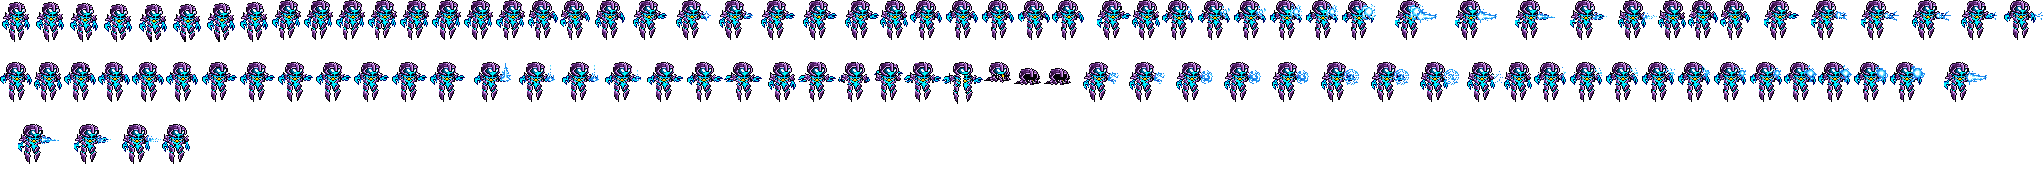
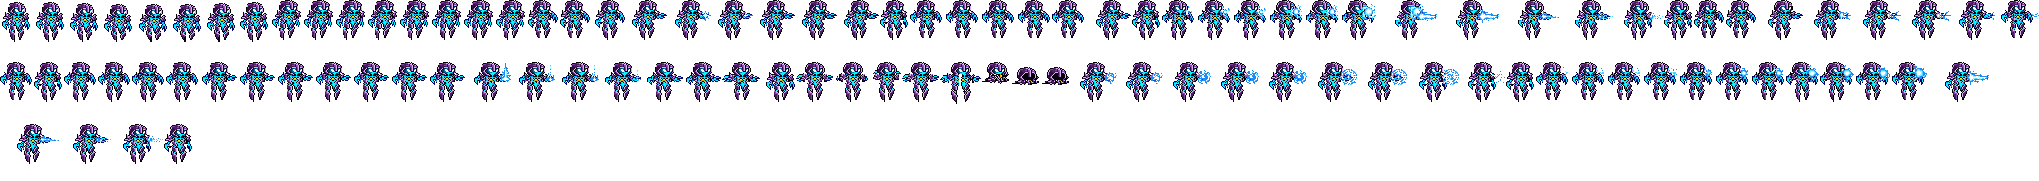
Xerath: the shrink's lines follow him from frame to frame
The user: 「缩小后放技能的时候模型有点变形」「攻击时候也是」. Cut at fixed
canvas lines, a cast or an attack that moves him took different lines of him
in each frame (his head changed by 8-22 px between frames where main's does
not change at all). shrink_frames: anchor_shifts - per frame the offset of a
colour only one feature has (SHRINK_ANCHOR xerath: his eye core FBFCFC,
tracked frame to frame so a baked effect's white does not pull it); the lines
are chosen on the frames moved back onto the first and removed at that
offset in each. A bake copy (attack_fx1 = the attack from 183 ms) takes its
own frames' offsets against its source's first frame. Now the head changes
between frames exactly where main's drawing does (run, attack, hit, ult loop,
attack_fx1: 0).

Changed region(s): [[0.0, 0.0, 1.0, 0.221], [0.0, 0.3315, 0.9887, 0.5525], [0.0, 0.6906, 0.0927, 0.9116]]

diff --git a/tools/art/shrink_frames.py b/tools/art/shrink_frames.py
@@ -178,13 +178,18 @@ def _pick(cost, lo, hi, k, avoid=(), keep=None):
     return out
 
 
-def plan_tag(frames, body, scale, keep_colours=(), edge_rows=(), edge_cols=(), hard_frames=None):
+def plan_tag(frames, body, scale, keep_colours=(), edge_rows=(), edge_cols=(), hard_frames=None, shifts=None):
     """The rows and columns (canvas lines, from the pivot) the hero loses. body = (top, bottom, left, right) of the
     idle's body from the pivot (bottom = the soles' row): of its rows and columns 1 - scale go; of what lies beyond
     it (a raised or held-out weapon) the same share. One plan serves every action (shrink_sheet passes all their
     frames together), so the body loses the same lines in each - an action one row taller than the idle would pop at
-    every animation change. edge_rows / edge_cols: every action's own outermost two lines (pivot-relative), kept."""
+    every animation change. edge_rows / edge_cols: every action's own outermost two lines (pivot-relative), kept.
+    shifts: per frame (dy, dx) of the body against the action's first frame (anchor_shifts): the lines are chosen on
+    the frames moved back onto the first and removed at that much offset in each, so every frame loses the same lines
+    of HIM, not of the canvas."""
     st, H, W = _canvas(frames)
+    if shifts is not None:
+        st = np.stack([_moved(f, -dy, -dx) for f, (dy, dx) in zip(st, shifts)])
     occ = (st[..., 3] > 0).any(0)
     rows, cols = np.nonzero(occ.any(1))[0], np.nonzero(occ.any(0))[0]
     top, bottom, left, right = body
@@ -258,7 +263,53 @@ def plan_tag(frames, body, scale, keep_colours=(), edge_rows=(), edge_cols=(), h
     r_pick = move_off(r_pick, hr, rc, rows.min(), H + bottom + 1, (), False)
     c_pick = move_off(c_pick, hc, cc, cols.min(), cols.max() + 1, (W,), True)
     return {"rows": sorted(i - H for i in r_pick), "cols": sorted(i - W for i in c_pick),       # from the pivot
-            "lost": int(rc[r_pick].sum() + cc[c_pick].sum()) if r_pick or c_pick else 0}
+            "lost": int(rc[r_pick].sum() + cc[c_pick].sum()) if r_pick or c_pick else 0,
+            "shifts": [tuple(int(v) for v in d) for d in shifts] if shifts is not None else None}
+
+
+def _moved(a, dy, dx):
+    """A canvas moved by (dy, dx), what leaves it dropped, the rest empty."""
+    out = np.zeros_like(a)
+    H, W = a.shape[:2]
+    ys, yd = (slice(0, H - dy), slice(dy, H)) if dy >= 0 else (slice(-dy, H), slice(0, H + dy))
+    xs, xd = (slice(0, W - dx), slice(dx, W)) if dx >= 0 else (slice(-dx, W), slice(0, W + dx))
+    out[yd, xd] = a[ys, xs]
+    return out
+
+
+def anchor_points(frames, colour, near=None):
+    """Per frame the centre of `colour` (a colour only one feature has: Xerath's eye core) from the pivot, or None.
+    near: start point of a track - each frame keeps only the squares within 10 of the last centre found (an effect
+    baked into the frame may carry the colour too)."""
+    st, H, W = _canvas(frames)
+    rgb = tuple(int(colour[i:i + 2], 16) for i in (0, 2, 4))
+    pts, last = [], near
+    for f in st:
+        m = (f[..., 3] > 0) & (f[..., :3] == rgb).all(-1)
+        ys, xs = np.nonzero(m)
+        ys, xs = ys - H, xs - W
+        if last is not None and len(ys):
+            ok = (np.abs(ys - last[0]) <= 10) & (np.abs(xs - last[1]) <= 10)
+            ys, xs = ys[ok], xs[ok]
+        p = (float(ys.mean()), float(xs.mean())) if len(ys) else None
+        if p is not None and near is not None:
+            last = p
+        pts.append(p)
+    return pts
+
+
+def anchor_shifts(frames, colour, ref=None):
+    """Per frame (dy, dx) of the anchor against `ref` (default: the first frame that shows it); a frame without it
+    takes the last one's."""
+    pts = anchor_points(frames, colour, near=ref)
+    if ref is None:
+        ref = next((p for p in pts if p is not None), None)
+    out, last = [], (0, 0)
+    for p in pts:
+        if p is not None and ref is not None:
+            last = (int(round(p[0] - ref[0])), int(round(p[1] - ref[1])))
+        out.append(last)
+    return out
 
 
 def move_point(plan, dx, dy):
@@ -275,13 +326,18 @@ def apply_tag(frames, plan):
     every removed row (all lie above the soles, so the soles keep their place under the pivot) and its column by the
     removed columns left of it."""
     st, H, W = _canvas(frames)
-    gone_r = {H + i for i in plan["rows"] if 0 <= H + i < st.shape[1]}
-    gone_c = {W + i for i in plan["cols"] if 0 <= W + i < st.shape[2]}
-    keep_r = [i for i in range(st.shape[1]) if i not in gone_r]
-    keep_c = [i for i in range(st.shape[2]) if i not in gone_c]
-    pr = H - len(gone_r)
-    pc = W - sum(1 for i in gone_c if i < W)
-    return [(G.centre_frame(st[k][np.ix_(keep_r, keep_c)], -pc, -pr), ms) for k, (_, ms) in enumerate(frames)]
+    shifts = plan.get("shifts") or [(0, 0)] * len(frames)
+    out = []
+    for k, (_, ms) in enumerate(frames):
+        dy, dx = shifts[k] if k < len(shifts) else (0, 0)
+        gone_r = {H + i + dy for i in plan["rows"] if 0 <= H + i + dy < st.shape[1]}
+        gone_c = {W + i + dx for i in plan["cols"] if 0 <= W + i + dx < st.shape[2]}
+        keep_r = [i for i in range(st.shape[1]) if i not in gone_r]
+        keep_c = [i for i in range(st.shape[2]) if i not in gone_c]
+        pr = H - len(gone_r)
+        pc = W - sum(1 for i in gone_c if i < W)
+        out.append((G.centre_frame(st[k][np.ix_(keep_r, keep_c)], -pc, -pr), ms))
+    return out
 
 
 def body_of(frames):
@@ -292,10 +348,11 @@ def body_of(frames):
     return (ys.min() - H, ys.max() - H, xs.min() - W, xs.max() - W)
 
 
-def shrink_sheet(sheet, scale, body_tag="idle", same_as=None, keep_colours=(), body=None, tags=None):
+def shrink_sheet(sheet, scale, body_tag="idle", same_as=None, keep_colours=(), body=None, tags=None, anchor=None):
     """Every action of the sheet (or only `tags`) made `scale` as big; returns {tag: plan}. same_as {tag: source tag}: a
     copy of another action's frames (import_native's bake: the attack with a flash drawn in) takes its source's plan.
-    body: the range the counts come from (body_of the idle as drawn), when the idle has been shrunk already."""
+    body: the range the counts come from (body_of the idle as drawn), when the idle has been shrunk already.
+    anchor: a colour only one feature has; the lines then follow the body from frame to frame (anchor_shifts)."""
     if body is None:
         body = body_of(sheet[body_tag])
     # one plan per action from its own frames (its head box and hands are tight there; one plan for all the actions
@@ -308,11 +365,20 @@ def shrink_sheet(sheet, scale, body_tag="idle", same_as=None, keep_colours=(), b
 
     def root(t):
         return root(same_as[t]) if t in same_as and same_as[t] in sheet else t
+    refs = {}
     for tag in sorted(todo, key=lambda t: t != root(t)):
         if root(tag) != tag and root(tag) in plans:
-            plans[tag] = plans[root(tag)]
+            plans[tag] = dict(plans[root(tag)])
+            if anchor:
+                # a copy is a slice of its source with an effect drawn in (attack_fx1 = the attack from 183 ms): its
+                # own frames' offsets, against its source's first frame
+                plans[tag]["shifts"] = anchor_shifts(sheet[tag], anchor, refs[root(tag)])
         else:
-            plans[tag] = plan_tag(sheet[root(tag)], body, scale, keep_colours)
+            fr = sheet[root(tag)]
+            if anchor:
+                refs[tag] = next((p for p in anchor_points(fr, anchor) if p is not None), None)
+            plans[tag] = plan_tag(fr, body, scale, keep_colours,
+                                  shifts=anchor_shifts(fr, anchor, refs[tag]) if anchor else None)
     for tag in todo:
         sheet[tag] = apply_tag(sheet[tag], plans[tag])
     return plans

diff --git a/tools/art/import_native.py b/tools/art/import_native.py
@@ -637,6 +637,10 @@ TIDY = {"ahri": "clean_ahri", "janna": "clean_janna", "morgana": "clean_morgana"
 # no line may cross, "!RRGGBB+up,down,left,right" a box no line may cross
 SHRINK = {"xerath": 0.9}      # players: 「泽拉斯 ... 体型偏大」 (2026-10-08)
 SHRINK_KEEP = {"xerath": ["!FBFCFC"]}   # his eyes' white-hot core: no line through his face
+# the lines follow the body from frame to frame, anchored on a colour only one feature has: cut at fixed canvas lines,
+# a cast or an attack that moves him took different lines of him in each frame - 「缩小后放技能的时候模型有点变形」
+# 「攻击时候也是」
+SHRINK_ANCHOR = {"xerath": "FBFCFC"}
 CROWN = {"leesin"}              # heroes whose head template starts at the crown (a braid stands above it)
 PASTED = {"masteryi"}            # steadied on the head restyle_native pasted: his raised sword is the top of every frame
 # Codex's step-2 redraw (model_strips_18, tidied by tidy_codex18.py): the approved design's head (or face) is in every
@@ -1435,7 +1439,7 @@ def main():
             body0 = SF.body_of(sheet["idle"])
             a0 = sheet["idle"][0][0]
             idle_plan = SF.shrink_sheet(sheet, SHRINK[hero], keep_colours=SHRINK_KEEP.get(hero, ()), body=body0,
-                                        tags=["idle"])["idle"]
+                                        tags=["idle"], anchor=SHRINK_ANCHOR.get(hero))["idle"]
             if hero in HEAD_AT:
                 hx, hy = HEAD_AT[hero]
                 nx, ny = SF.move_point(idle_plan, hx - a0.shape[1] // 2, hy - a0.shape[0] // 2)
@@ -1457,7 +1461,8 @@ def main():
                     copies = {e["into"]: e["from"] for e in json.load(f)["items"] if "from" in e}
             plans = {"idle": idle_plan, **SF.shrink_sheet(sheet, SHRINK[hero], same_as=copies, body=body0,
                                                          keep_colours=SHRINK_KEEP.get(hero, ()),
-                                                         tags=[t for t in sheet if t != "idle"])}
+                                                         tags=[t for t in sheet if t != "idle"],
+                                                         anchor=SHRINK_ANCHOR.get(hero))}
             SHRUNK[hero] = plans
             print(f"{hero}: shrunk to {SHRINK[hero]:.0%} without resampling: " + ", ".join(
                 f"{t} -{len(p['rows'])}r -{len(p['cols'])}c" for t, p in plans.items()))
